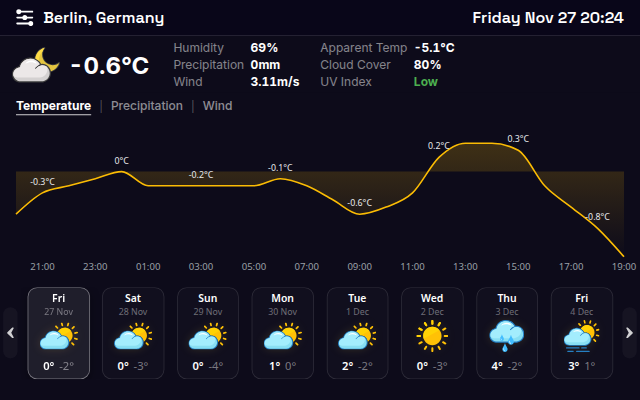
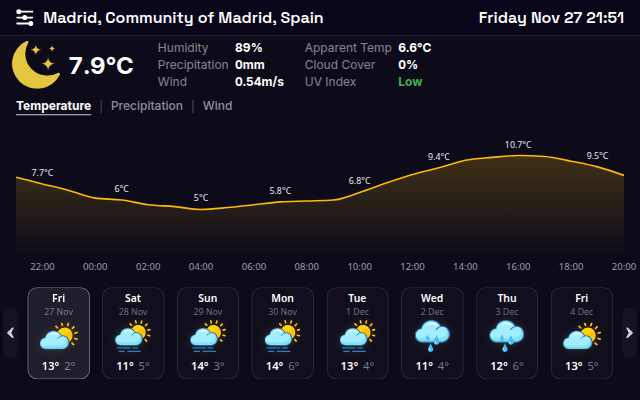
Show Madrid forecast in README

diff --git a/README.md b/README.md
@@ -13,7 +13,7 @@ Download the package for your browser from [GitHub Releases](https://github.com/
 
 ## Screenshots
 
-![WeatherEx forecast with current conditions, an hourly temperature chart, and daily forecasts](docs/screenshots/forecast.png)
+![WeatherEx forecast for Madrid with current conditions, an hourly temperature chart, and daily forecasts](docs/screenshots/forecast.png)
 
 ![WeatherEx settings with City selected and controls for temperature, precipitation, time, and wind speed](docs/screenshots/settings.png)
 
